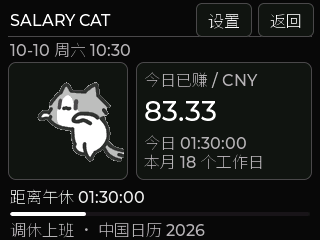
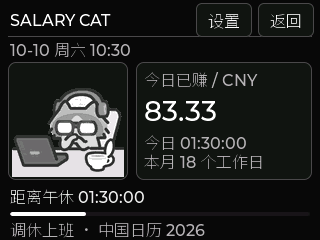
feat: add weekend Salary Cat animations and link author blog

Changed region(s): [[0.0312, 0.3208, 0.4062, 0.7583]]

diff --git a/tools/convert_salary_cats.py b/tools/convert_salary_cats.py
@@ -1,4 +1,4 @@
-"""Convert the five reference GIFs to RGB332 RLE frames (requires Pillow)."""
+"""Convert weekday, weekend and makeup-workday GIFs to RGB332 RLE (requires Pillow)."""
 import argparse
 from pathlib import Path
 import shutil
@@ -6,11 +6,20 @@ from collections import deque
 from PIL import Image
 
 
-def cutout(image):
+def cutout(image, remove_top_caption=False):
     """Remove edge-connected paper; keep the cat's enclosed white belly."""
     image = image.convert('RGBA')
     width, height = image.size
     pixels = list(image.getdata())
+    if remove_top_caption:
+        # This GIF's neutral captions move around outside the colored subject.
+        for y in range(height):
+            row = pixels[y * width:(y + 1) * width]
+            subject = [x for x, (r, g, b, a) in enumerate(row) if a >= 128 and max(r, g, b) - min(r, g, b) > 35]
+            left, right = (min(subject), max(subject)) if subject else (width, -1)
+            for x in range(width):
+                if x < left or x > right:
+                    pixels[y * width + x] = (0, 0, 0, 0)
     outside = bytearray(width * height)
     queue = deque()
     def background(index):
@@ -81,8 +90,9 @@ def main():
     assets = root / 'assets/salary_cat'
     assets.mkdir(parents=True, exist_ok=True)
     data, frames, ranges = bytearray(), [], []
-    for day in '一二三四五':
-        source = args.source / f'周{day}.gif'
+    names = [f'周{day}.gif' for day in '一二三四五六日'] + ['非周内.gif']
+    for name in names:
+        source = args.source / name
         if source.resolve() != (assets / source.name).resolve():
             shutil.copyfile(source, assets / source.name)
         start, elapsed = len(frames), 0
@@ -95,7 +105,7 @@ def main():
                     continue
                 if len(frames) > start:
                     frames[-1][2] = max(70, elapsed)
-                rgba = cutout(image).resize((112, 112), Image.Resampling.LANCZOS)
+                rgba = cutout(image, remove_top_caption=name == '非周内.gif').resize((112, 112), Image.Resampling.LANCZOS)
                 packed = encode(rgba.getdata())
                 frames.append([len(data), len(packed), 100])
                 data.extend(packed)
@@ -108,7 +118,7 @@ def main():
               'typedef struct { uint32_t offset; uint16_t length, duration; } salary_cat_frame_t;',
               'static const salary_cat_frame_t salary_cat_frames[] = {']
     header += [f'    {{{offset}, {length}, {duration}}},' for offset, length, duration in frames]
-    header += ['};', 'static const uint16_t salary_cat_ranges[5][2] = {']
+    header += ['};', 'static const uint16_t salary_cat_ranges[8][2] = {']
     header += [f'    {{{start}, {count}}},' for start, count in ranges]
     header += ['};', '']
     (root / 'main/salary_cat_frames.h').write_text('\n'.join(header), encoding='utf-8')

diff --git a/tools/test_salary.c b/tools/test_salary.c
@@ -24,6 +24,22 @@ int main(void)
     assert(!salary_workday(&data, 2026, 10, 1));
     assert(salary_workday(&data, 2026, 10, 10)); // Saturday makeup day.
     assert(!salary_workday(&data, 2026, 10, 11));
+    assert(salary_cat_index(&data, 2026, 10, 20) == 1);
+    assert(salary_cat_index(&data, 2026, 10, 10) == 7); // Official Saturday makeup.
+    assert(salary_cat_index(&data, 2026, 10, 17) == 5);
+    assert(salary_cat_index(&data, 2026, 10, 18) == 6);
+    assert(salary_cat_index(&data, 2026, 1, 4) == 7); // Official Sunday makeup.
+    assert(salary_cat_index(&data, 2027, 1, 2) == 5); // Uncovered calendar.
+    assert(salary_cat_index(&data, 2026, 2, 30) == 0);
+    assert(salary_set_override(&data, 20261010, 0));
+    assert(salary_cat_index(&data, 2026, 10, 10) == 5); // Personal rest overrides makeup.
+    assert(salary_set_override(&data, 20261010, -1));
+    assert(salary_set_override(&data, 20261017, 1));
+    assert(salary_cat_index(&data, 2026, 10, 17) == 5); // Personal work is not a national makeup day.
+    assert(salary_set_override(&data, 20261017, -1));
+    data.config.use_calendar = 0;
+    assert(salary_cat_index(&data, 2026, 10, 10) == 5);
+    data.config.use_calendar = 1;
     salary_result_t result = calculate(&data, 2026, 10, 20, 8, 0, 0);
     assert(result.phase == SALARY_BEFORE && result.countdown == 3600 && !result.today_fen);
     assert(result.workdays == 18 && result.daily_seconds == 21600 && result.annual_fen == 7200000);

diff --git a/main/salary_cat_frames.h b/main/salary_cat_frames.h
@@ -69,11 +69,35 @@ static const salary_cat_frame_t salary_cat_frames[] = {
     {158608, 100, 130},
     {158708, 100, 70},
     {158808, 100, 70},
+    {158908, 3508, 120},
+    {162416, 3890, 120},
+    {166306, 3546, 120},
+    {169852, 3574, 120},
+    {173426, 3656, 70},
+    {177082, 5108, 120},
+    {182190, 5692, 120},
+    {187882, 5490, 120},
+    {193372, 5702, 80},
+    {199074, 5590, 70},
+    {204664, 4750, 120},
+    {209414, 4872, 120},
+    {214286, 4838, 120},
+    {219124, 4904, 120},
+    {224028, 4790, 120},
+    {228818, 4714, 120},
+    {233532, 4604, 120},
+    {238136, 4750, 120},
+    {242886, 4732, 120},
+    {247618, 4750, 80},
+    {252368, 4780, 70},
 };
-static const uint16_t salary_cat_ranges[5][2] = {
+static const uint16_t salary_cat_ranges[8][2] = {
     {0, 5},
     {5, 12},
     {17, 13},
     {30, 3},
     {33, 33},
+    {66, 5},
+    {71, 5},
+    {76, 11},
 };

diff --git a/main/salary.c b/main/salary.c
@@ -53,6 +53,17 @@ bool salary_workday(const salary_data_t *d, int year, int month, int day)
     return (d->config.weekdays & (1u << weekday(year, month, day))) != 0;
 }
 
+int salary_cat_index(const salary_data_t *d, int year, int month, int day)
+{
+    if (!salary_date_valid(year * 10000 + month * 100 + day)) return 0;
+    int index = weekday(year, month, day);
+    if (index >= 5 && d->config.use_calendar && d->calendar.year == year &&
+        (d->calendar.known_months & (1u << (month - 1))) &&
+        (d->calendar.work[month - 1] & (1u << (day - 1))) &&
+        salary_workday(d, year, month, day)) return 7;
+    return index;
+}
+
 bool salary_set_override(salary_data_t *d, uint32_t date, int mode)
 {
     if (!salary_date_valid(date) || mode < -1 || mode > 1) return false;

diff --git a/main/salary.h b/main/salary.h
@@ -52,6 +52,7 @@ bool salary_config_valid(const salary_config_t *config);
 int salary_month_days(int year, int month);
 bool salary_date_valid(uint32_t date);
 bool salary_workday(const salary_data_t *data, int year, int month, int day);
+int salary_cat_index(const salary_data_t *data, int year, int month, int day); // Mon..Sun = 0..6; official weekend makeup = 7.
 bool salary_set_override(salary_data_t *data, uint32_t date, int mode); // -1 automatic, 0 rest, 1 work
 bool salary_calculate(const salary_data_t *data, const struct tm *local, salary_result_t *out);
 bool salary_calendar_packet(salary_calendar_t *calendar, const char *line);

diff --git a/main/salary_ui.c b/main/salary_ui.c
@@ -272,7 +272,7 @@ static void timer(lv_timer_t *unused)
     salary_result_t result;
     bool valid = synced && salary_calculate(&data, &local, &result);
     int day = valid ? (local.tm_wday + 6) % 7 : 0;
-    int animation = day < 5 ? day : 4;
+    int animation = valid ? salary_cat_index(&data, local.tm_year + 1900, local.tm_mon + 1, local.tm_mday) : 0;
     if (s_pixels && (s_day != animation || tick - s_frame_tick >= salary_cat_frames[s_frame].duration)) {
         if (s_day != animation) { s_day = animation; s_frame = salary_cat_ranges[animation][0]; }
         else {

diff --git a/tools/test_work_calendar.py b/tools/test_work_calendar.py
@@ -67,7 +67,7 @@ class CalendarTests(unittest.TestCase):
             offset += length
         self.assertEqual(offset, len(data))
         ranges = re.findall(r'\{(\d+), (\d+)\}', header)
-        self.assertEqual(len(ranges), 5)
+        self.assertEqual(len(ranges), 8)
         start = 0
         for first, count in ranges:
             self.assertEqual(int(first), start)

diff --git a/docs/images/salary-cat/README.md b/docs/images/salary-cat/README.md
@@ -1,6 +1,6 @@
 # 月薪猫界面图片说明
 
-这些图片随 2026-10-20 月薪猫源码更新上传，供 README 和操作手册展示关键功能。
+这些图片随 2026-10-20／21 月薪猫源码更新上传，供 README 和操作手册展示关键功能。
 
 ## 采集方式
 
@@ -9,9 +9,10 @@
 - 固定示例时间为 2026-10-20 10:30，月薪 6,000 元，09:00–12:00、14:00–17:00，使用内置 2026 中国调休日历。补班截图单独固定到 2026-10-10 10:30。
 - 设置和校时由离屏程序的内存替身提供；点击实际 LVGL 控件进入各页。今日／本月／年薪金额、18 个工作日和补班提示在采集时作断言检查。
 - GIF 连续采样 24 次，每次间隔 140 毫秒；编码合并相邻重复画面后为 23 帧，总时长 3.36 秒，循环播放。它展示动画会变化，不是设备帧率或流畅度测试。
+- 2026-10-21 使用更新后的实际页面重新采集补班截图，并增加周六、周日、国家周末补班三段动态预览，分别固定至 2026-10-17、18、10 日 10:30；每段 24 次采样、间隔 140 毫秒，采集时断言动画组为 5／6／7 且画面发生变化。普通周末今日金额为零，补班正常计薪。
 
 这是**当前界面的软件渲染截图，不是实物照片**，没有模拟 LCD 背光、拍摄效果或实体触摸。
-设备构建、烧录与运行检查另见 [验证记录](../../VALIDATION.md)；触摸手感、NVS 重启记忆和实物观感仍需实测。
+设备构建、烧录与运行检查另见 [验证记录](../../VALIDATION.md)。设备使用者已于 2026-10-21 确认当前实体画面正常、猫咪持续播放；触摸设置全项、NVS 重启记忆和长期稳定性仍需进一步实测。
 
 ## 文件与图注
 
@@ -26,5 +27,8 @@
 | [weekdays.png](weekdays.png) | 每周工作日选择，周一至周五高亮 |
 | [date-override.png](date-override.png) | 指定日期设为上班、休息或自动 |
 | [makeup-workday.png](makeup-workday.png) | 2026-10-10 周六补班计薪，底部提示“调休上班” |
+| [saturday-animated.gif](saturday-animated.gif) | 普通周六休息，播放周六猫咪 |
+| [sunday-animated.gif](sunday-animated.gif) | 普通周日休息，播放周日猫咪 |
+| [makeup-animated.gif](makeup-animated.gif) | 国家指定周末补班，播放“非周内”猫咪，浮动文字已去除 |
 
 猫咪来源和字体许可见 [素材说明](../../../assets/salary_cat/README.md)，原图不因截图而改变许可。

diff --git a/docs/VALIDATION.md b/docs/VALIDATION.md
@@ -1,7 +1,16 @@
 # 验证记录
 
-本文是截至 2026-10-20 开发过程的公开整理，省略个人路径、实时用量、
+本文是截至 2026-10-21 开发过程的公开整理，省略个人路径、实时用量、
 Flash 备份和本机诊断文件。它区分已经完成的验证与后续需要执行的测试。
+
+## 2026-10-21 周末与国家补班猫咪
+
+- 新增周六、周日和“非周内”原 GIF；最终 87 帧／257,148 字节 RLE。全部帧解码、透明索引和八组动画变化检查通过；浮动文字去除检查保留主体轮廓及内部白色。
+- 原生 C 检查通过，覆盖周六／周日国家补班、普通周末、关闭调休、日历年份不符，以及个人休息和个人加班的选择区别；6 项日历／素材测试通过。
+- ESP-IDF 5.5.4 构建成功，应用 1,882,656 字节；COM5 仅写入应用区，写入哈希和独立读回校验通过。NVS 烧录前另存于非系统盘，未擦除。
+- 模拟 2026-10-10、17、18 日进入页面，串口 PONG 与动画计数分别 7→17、30→39、53→62；结束恢复真实时间及后台监控。动画选择由原生 C 检查验证，串口计数仅证明播放持续运行，未通过实体屏幕逐帧目视验收。
+- 实体画面验收：2026-10-21，设备使用者查看当前 OTHER → SALARY CAT 后明确确认“显示正常，猫咪持续播放”。这是使用者目视确认；并未要求使用者逐一模拟所有周末和补班日期，也不等同于长时间运行或触摸设置全项验收。
+- 上传前再次通过 52 项主机测试和严格警告模式的原生 C 薪资检查；检查 122 处本地文档链接、3 段 320×240 动态预览（每段 24 帧／3.36 秒）及更新后的补班截图。实际 LVGL 采集断言周六／周日／补班动画组分别为 5／6／7，固定示例与实体目视结果分开记录。作者博客链接访问返回 HTTP 200。
 
 ## 2026-10-20 主页与分类配图（文档更新）
 

diff --git a/assets/salary_cat/README.md b/assets/salary_cat/README.md
@@ -1,13 +1,15 @@
 # 月薪猫素材
 
-五张 GIF 由设备使用者提供，分别对应周一到周五，原文件不修改。
+八张 GIF 由设备使用者提供，分别对应周一到周日及“非周内”，原文件不修改。
+“非周内”指国家指定的周六、周日调休补班日，不是普通周末或个人临时加班。
 它们不因此自动适用工程的 MIT 代码许可；公开或商业再分发需由素材权利人授权。
 
 固件使用 `main/salary_cat.rle`，由 `tools/convert_salary_cats.py` 转换为
 112×112 RGB332 RLE，保留循环总时长并减少刷新次数。显示版本将与边缘相连的白底变为透明，
 保留猫咪身体内的白色，并过滤原图独立的浅色水印组件；索引 0 为透明。
+“非周内”原图的浮动文字在显示素材中按彩色主体每行轮廓剔除，保留猫咪、电脑与桌面；原 GIF 不修改。
 设备通过调色板将 RGB332 动画转为灰阶显示，保持原有帧数、透明度和播放缓存大小。
-此处理针对这五张参考图，替换新素材时需重新检查边缘和浅色细节。需要 Pillow，仅开发转换时使用。
+此处理针对这些参考图，替换新素材时需重新检查边缘和浅色细节。需要 Pillow，仅开发转换时使用。
 
 ```powershell
 python tools/convert_salary_cats.py assets/salary_cat
